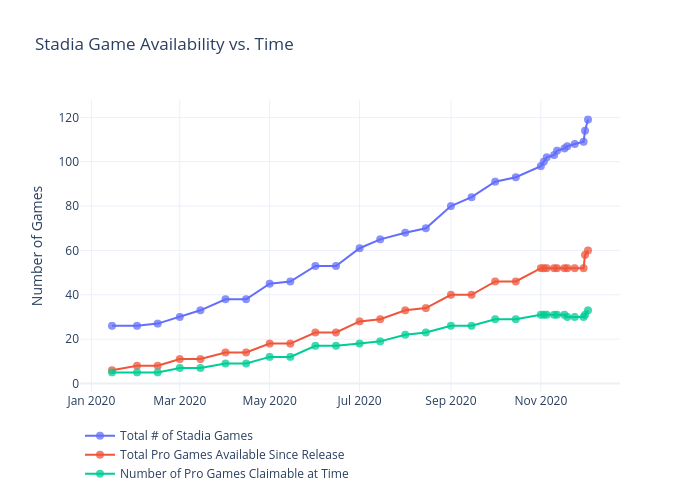
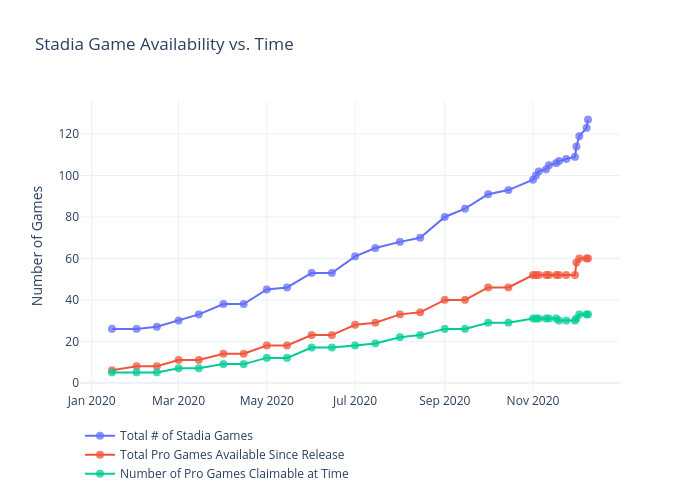
Add files via upload
Tuesday Data

diff --git a/games/figure.js b/games/figure.js
@@ -42,7 +42,9 @@ var figure = {
                 "2020-11-24",
                 "2020-11-30",
                 "2020-12-1",
-                "2020-12-03"
+                "2020-12-03",
+                "2020-12-08",
+                "2020-12-09"
             ],
             "ysrc": "jdeslip:358:e03fe9",
             "y": [
@@ -76,14 +78,17 @@ var figure = {
                 "108",
                 "109",
                 "114",
-                "119"
+                "119",
+                "123",
+                "127"
             ],
             "marker": {
                 "size": 8,
                 "opacity": 0.75
             },
             "stackgroup": null,
-            "connectgaps": true
+            "connectgaps": true,
+            "hovertemplate": "%{x}, %{y}"
         },
         {
             "meta": {
@@ -127,7 +132,9 @@ var figure = {
                 "2020-11-24",
                 "2020-11-30",
                 "2020-12-1",
-                "2020-12-03"
+                "2020-12-03",
+                "2020-12-08",
+                "2020-12-09"
             ],
             "ysrc": "jdeslip:358:5f7e72",
             "y": [
@@ -161,6 +168,8 @@ var figure = {
                 "52",
                 "52",
                 "58",
+                "60",
+                "60",
                 "60"
             ],
             "marker": {
@@ -168,7 +177,8 @@ var figure = {
                 "opacity": 0.75
             },
             "stackgroup": null,
-            "connectgaps": true
+            "connectgaps": true,
+            "hovertemplate": "%{x}, %{y}"
         },
         {
             "meta": {
@@ -212,7 +222,9 @@ var figure = {
                 "2020-11-24",
                 "2020-11-30",
                 "2020-12-1",
-                "2020-12-03"
+                "2020-12-03",
+                "2020-12-08",
+                "2020-12-09"
             ],
             "ysrc": "jdeslip:358:81d550",
             "y": [
@@ -246,6 +258,8 @@ var figure = {
                 "30",
                 "30",
                 "31",
+                "33",
+                "33",
                 "33"
             ],
             "marker": {
@@ -253,7 +267,8 @@ var figure = {
                 "opacity": 0.75
             },
             "stackgroup": null,
-            "connectgaps": true
+            "connectgaps": true,
+            "hovertemplate": "%{x}, %{y}"
         }
     ],
     "layout": {
@@ -263,8 +278,8 @@ var figure = {
         "xaxis": {
             "type": "date",
             "range": [
-                "2019-12-25 18:11:50.6901",
-                "2020-12-23 05:48:09.3099"
+                "2019-12-25 09:10:23.5821",
+                "2020-12-29 14:49:36.4179"
             ],
             "title": {
                 "text": ""
@@ -274,8 +289,8 @@ var figure = {
         "yaxis": {
             "type": "linear",
             "range": [
-                -2.840552118039027,
-                126.84055211803903
+                -7.666377063423109,
+                139.6663770634231
             ],
             "title": {
                 "text": "Number of Games"
